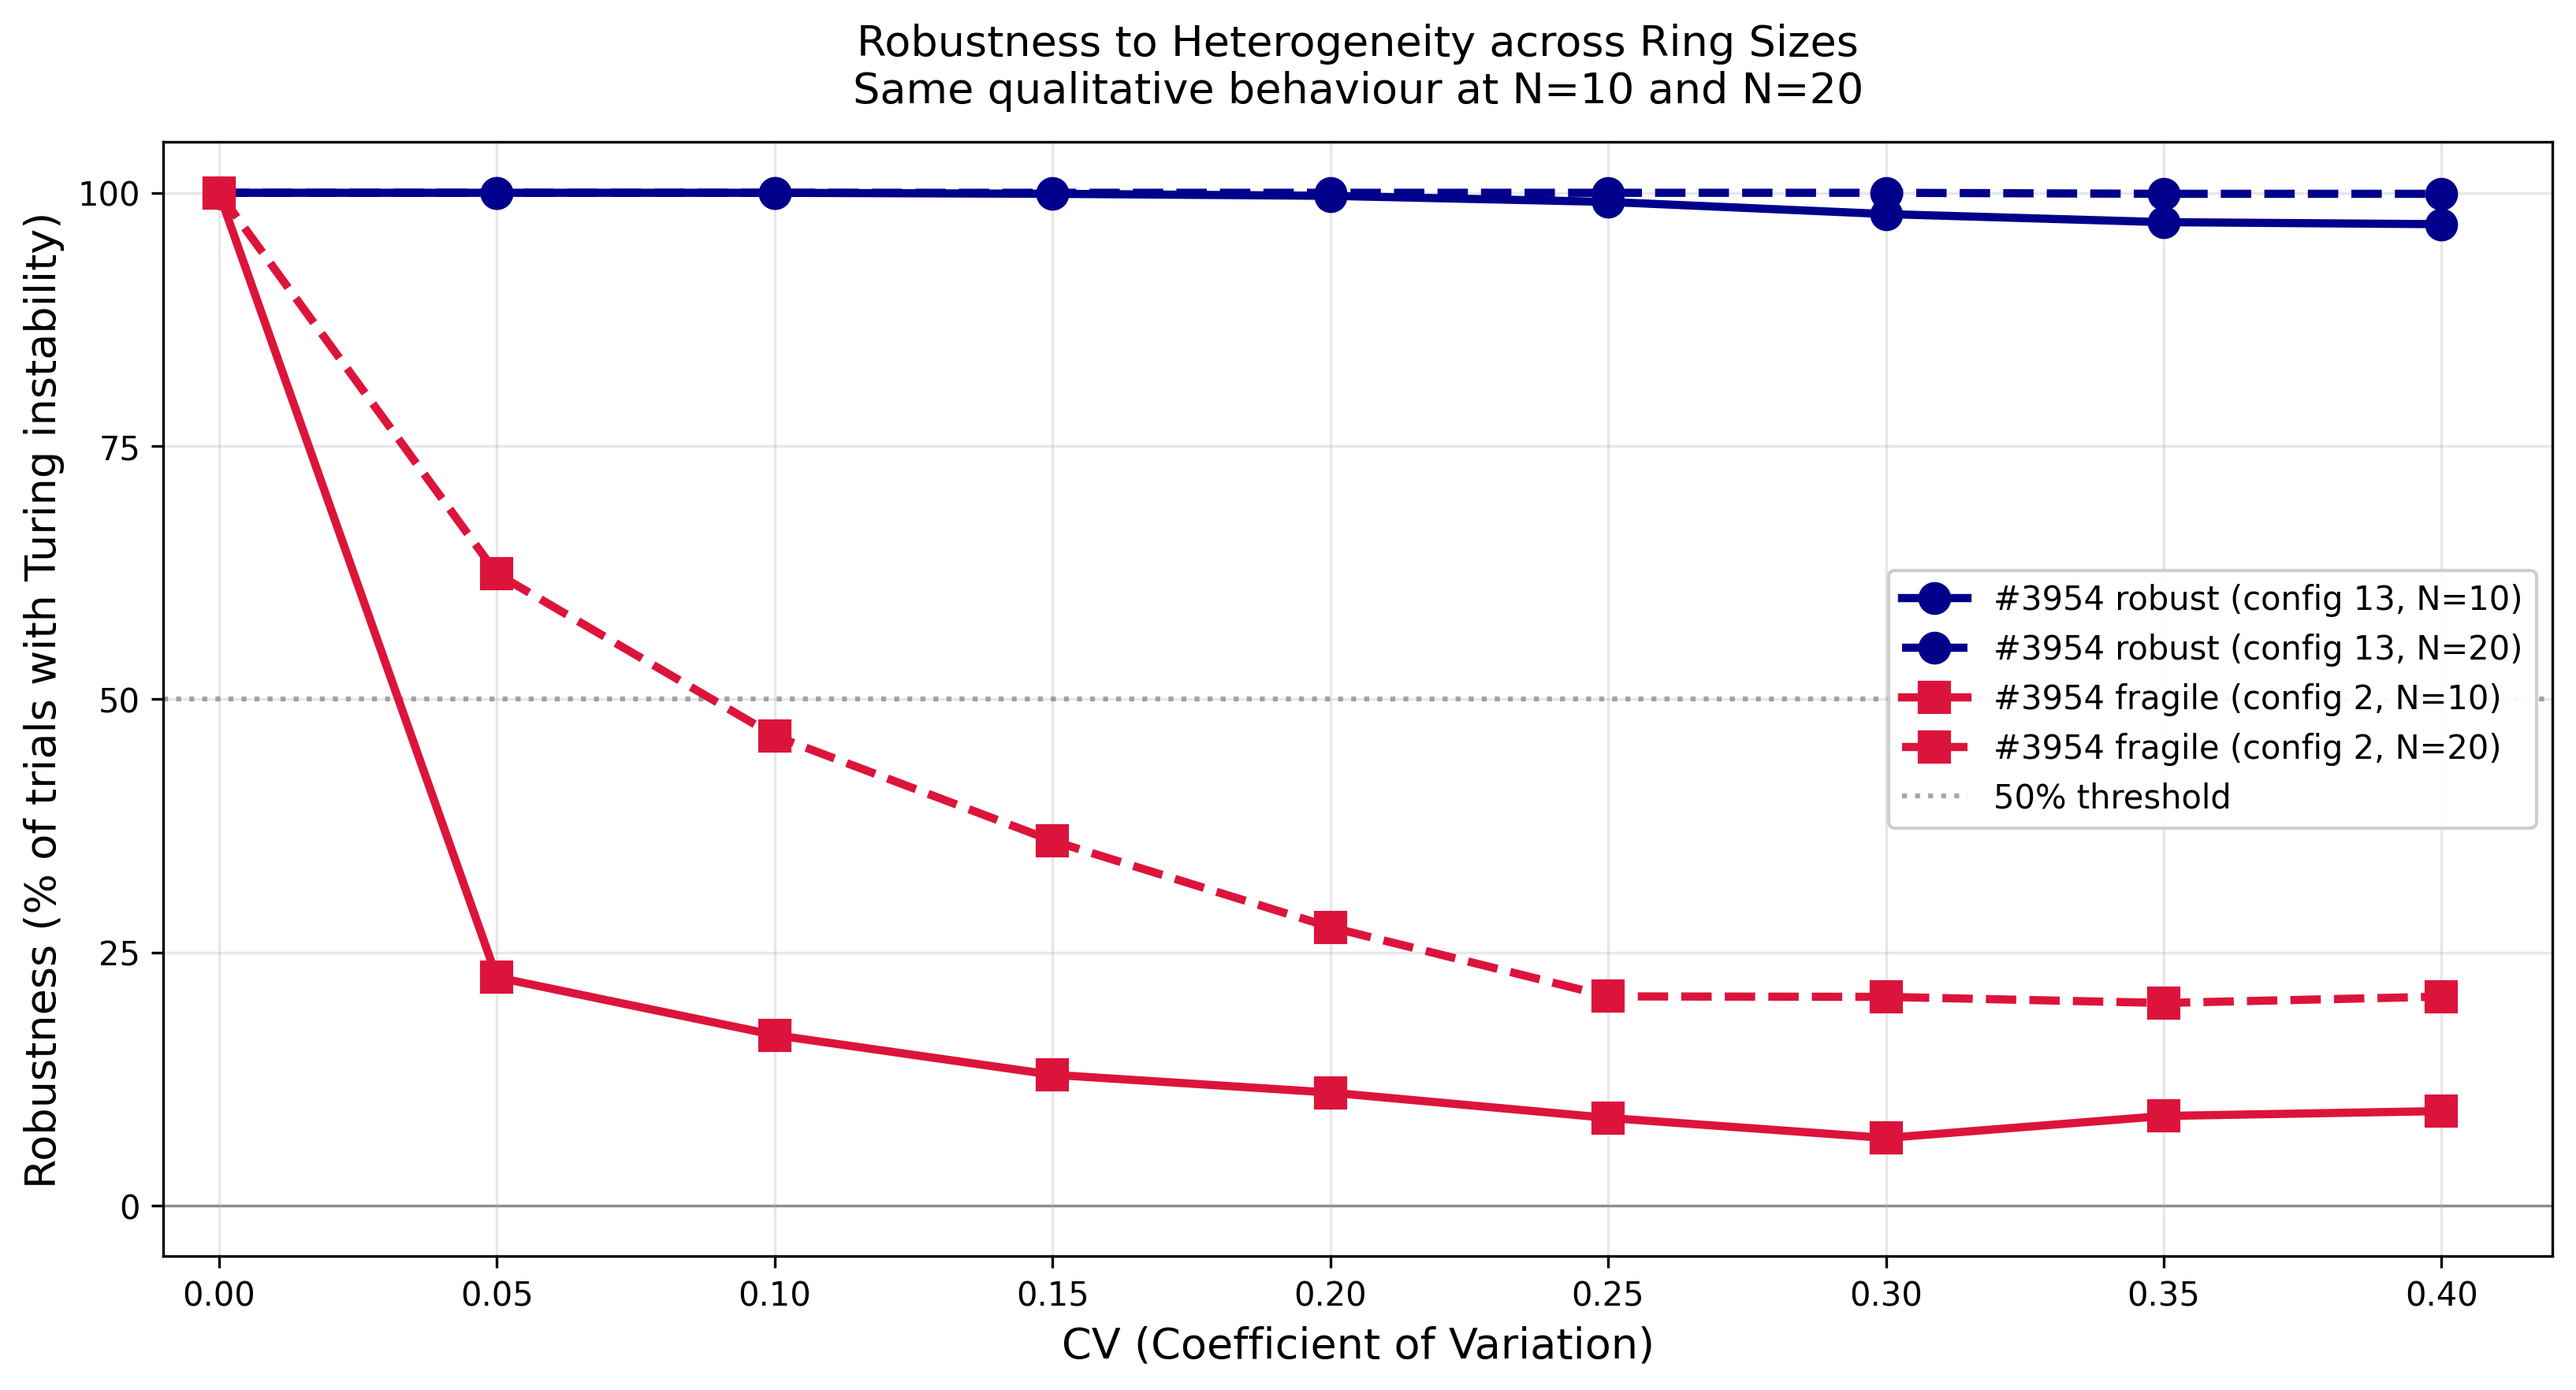
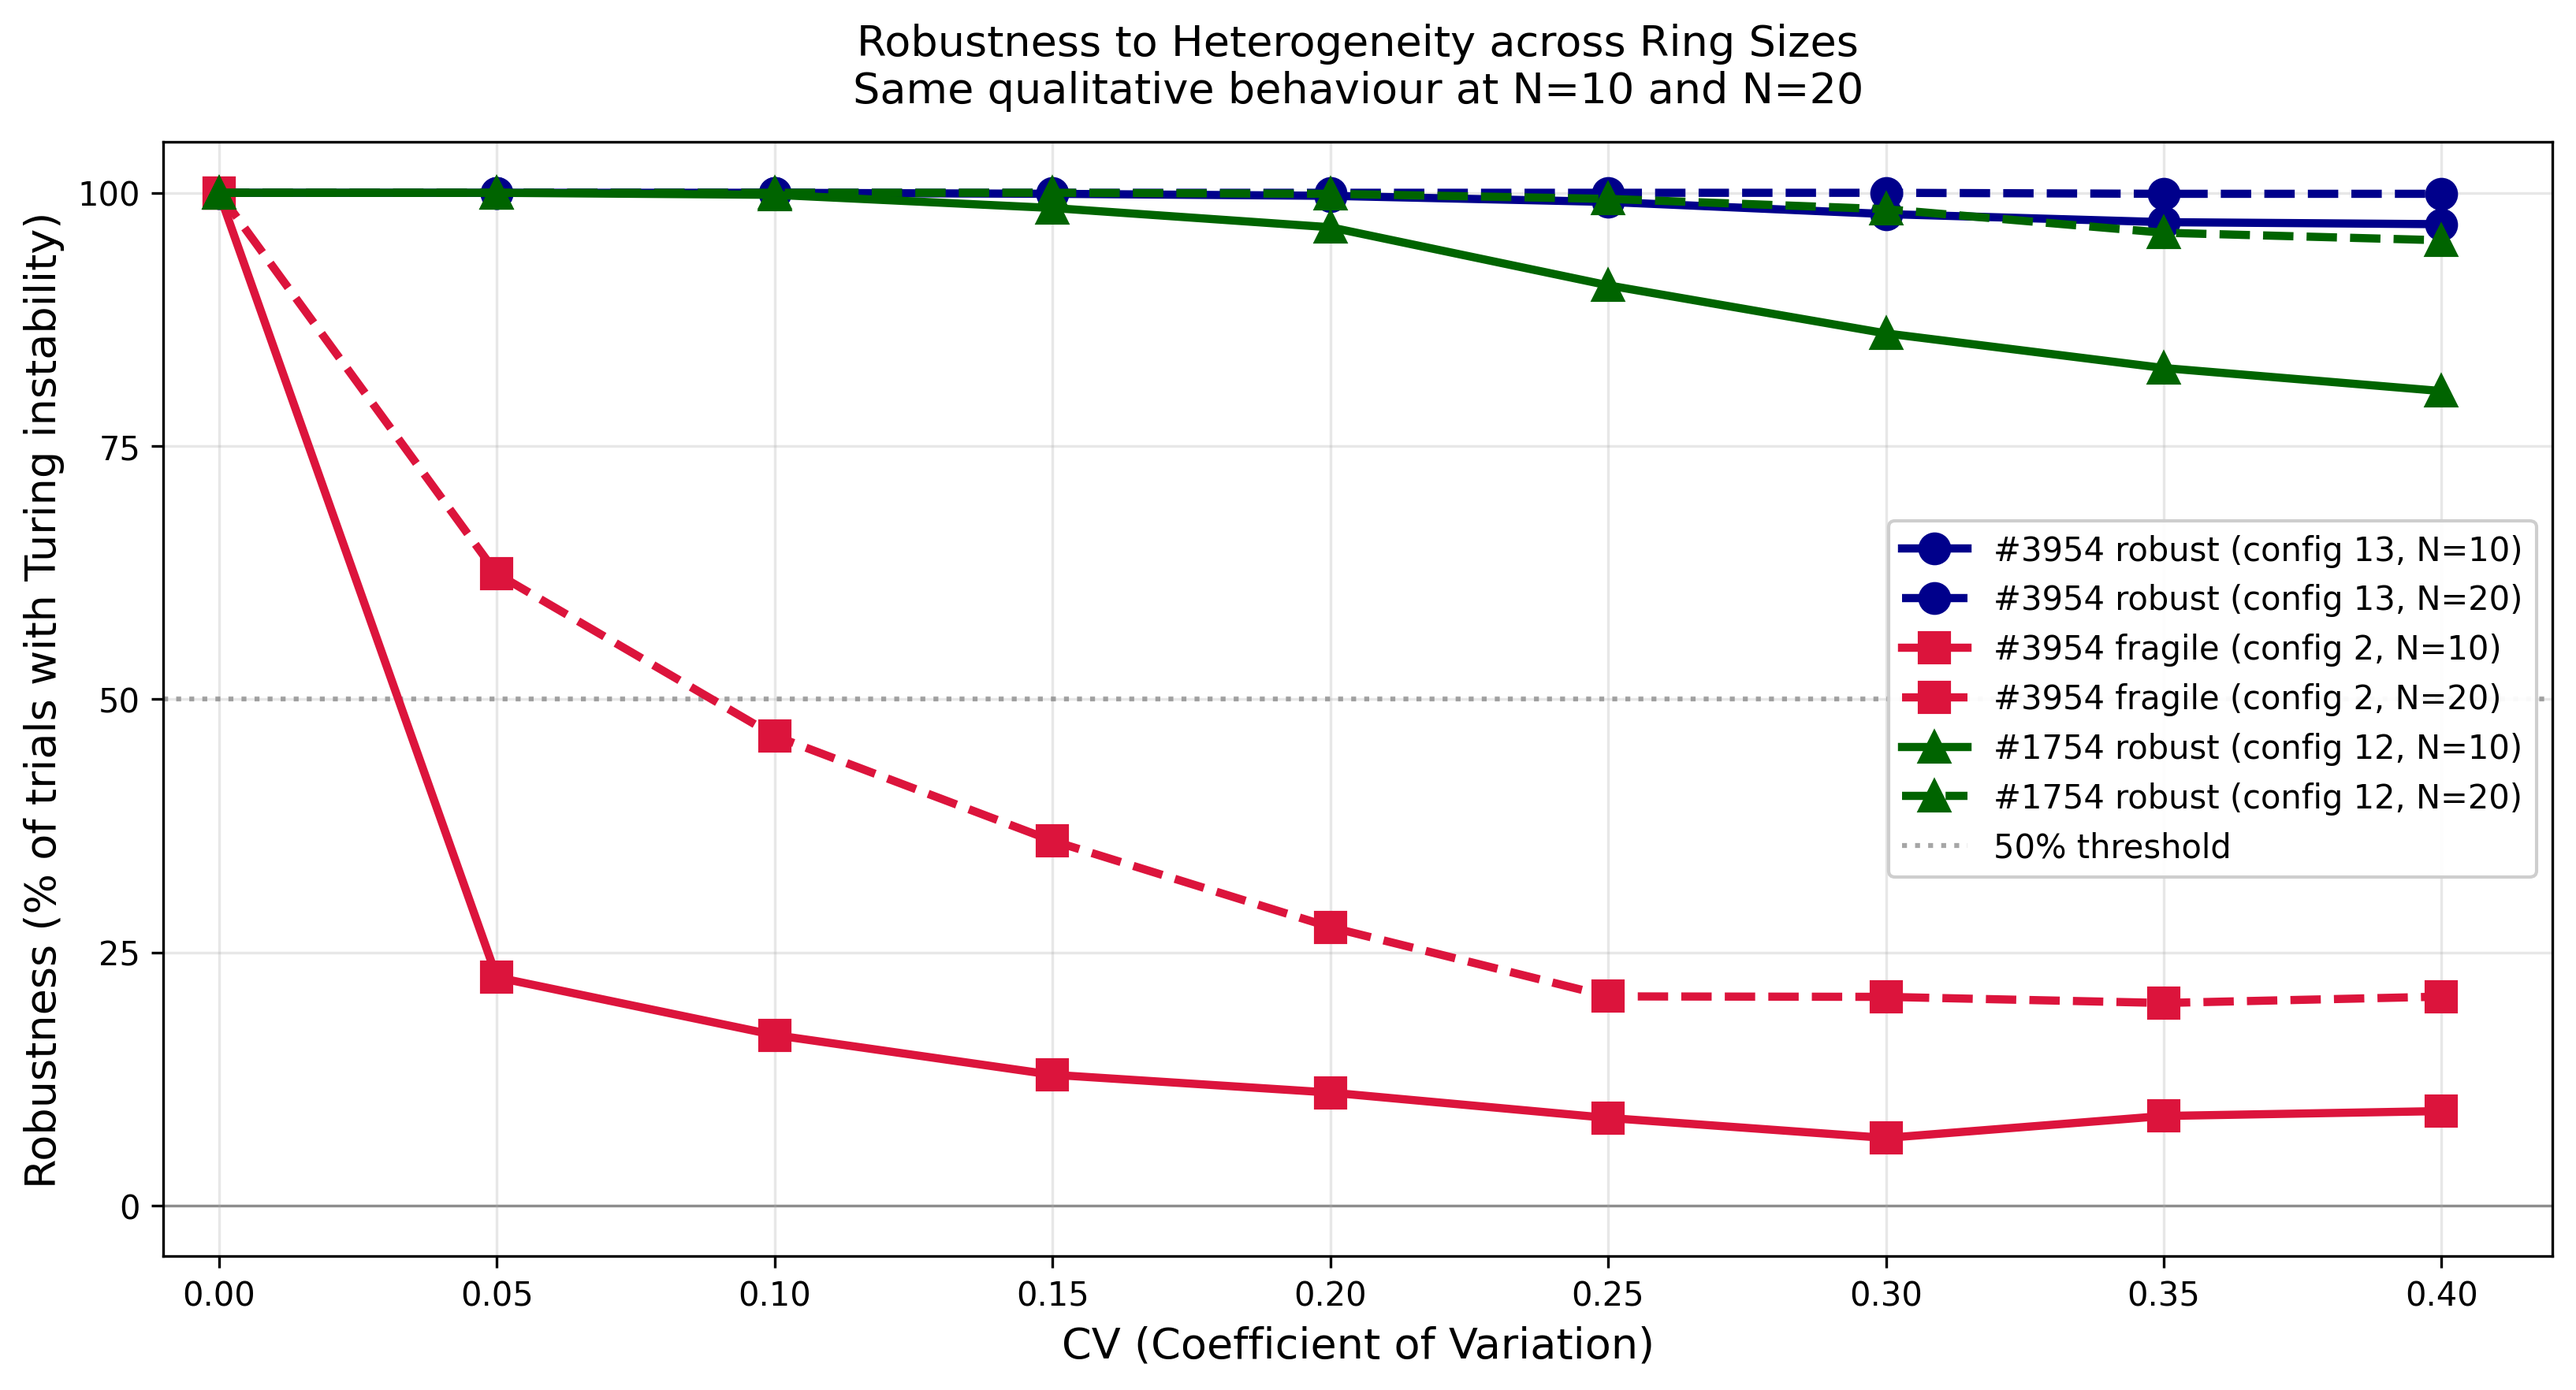
1754 new plots

diff --git a/BiologicalRealism/plots.py b/BiologicalRealism/plots.py
@@ -211,15 +211,16 @@ with open('1754_cv_sweep_high_config12_N10.pkl', 'rb') as f:
 with open('1754_sensitivity_results_config12_N10.pkl', 'rb') as f:
     sens_data_12 = pickle.load(f)
 
-# Config 2 (fragile)
-# with open('1754_cv_sweep_low_config_N10.pkl', 'rb') as f:
-#     cv_data_7 = pickle.load(f)
 
-# with open('1754_sensitivity_results_config2_N10.pkl', 'rb') as f:
-#     sens_data_7 = pickle.load(f)
+# Config 6 (fragile)
+with open('1754_cv_sweep_low_config6_N10.pkl', 'rb') as f:
+    cv_data_6 = pickle.load(f)
+
+with open('1754_sensitivity_results_config6_N10.pkl', 'rb') as f:
+    sens_data_6 = pickle.load(f)
 
 cv12 = extract_cv_arrays(cv_data_12)
-# cv7 = extract_cv_arrays(cv_data_7)
+cv6 = extract_cv_arrays(cv_data_6)
 
 
 ################ TOPOLOGY 1754 ################
@@ -260,8 +261,8 @@ fig, ax = plt.subplots(figsize=(12, 6))
 
 # Create boxplot
 
-bp = ax.boxplot(cv13['all'],
-                positions=range(len(cv13['CV'])),
+bp = ax.boxplot(cv12['all'],
+                positions=range(len(cv12['CV'])),
                 widths=0.6,
                 patch_artist=True,
                 showfliers=True,
@@ -276,80 +277,80 @@ for patch in bp['boxes']:
 # horizontal line at Re(λ) = 0 (Turing threshold)
 ax.axhline(y=0, color='red', linestyle='--', linewidth=2, label='Turing threshold (Re(λ)=0)', zorder=10)
 
-ax.set_xticks(range(len(cv13['CV'])))
-ax.set_xticklabels([f'{cv:.2f}' for cv in cv13['CV']])
+ax.set_xticks(range(len(cv12['CV'])))
+ax.set_xticklabels([f'{cv:.2f}' for cv in cv12['CV']])
 ax.set_xlabel('CV (Coefficient of Variation)', fontsize=12)
 ax.set_ylabel('Max Re(λ)', fontsize=12)
 
 ax.set_title(f'3954 Distribution of Turing Growth Rates Under Parameter Heterogeneity\n'
-             f'Config 13 (robust): {diff_str(cv13["hopping"])}',
+             f'Config 12 (robust): {diff_str(cv12["hopping"])}',
              fontsize=12, pad=15)
 
 ax.legend(fontsize=9, framealpha=0.9)  # Was fontsize=11
 ax.grid(True, alpha=0.3, axis='y')
 
 plt.tight_layout()
-plt.savefig('config13_fig2_boxplot_cv_sweep.png', dpi=300, bbox_inches='tight')
-print("Saved: config13_fig2_boxplot_cv_sweep.png")
+plt.savefig('config12_fig2_boxplot_cv_sweep.png', dpi=300, bbox_inches='tight')
+print("Saved: config12_fig2_boxplot_cv_sweep.png")
 plt.close()
 
 
-# # ============================================================================
-# # FIGURE 1B: Mean with full range — Config 2
-# # ============================================================================
+# ============================================================================
+# FIGURE 1B: Mean with full range — Config 6
+# ============================================================================
 
-# fig, ax = plt.subplots(figsize=(10, 6))
+fig, ax = plt.subplots(figsize=(10, 6))
 
-# ax.fill_between(cv2['CV'], cv2['min'], cv2['max'], alpha=0.2, color='blue', label='Full range (min-max)', zorder=1)
-# ax.plot(cv2['CV'], cv2['mean'], 'o-', color='darkblue', linewidth=2.5, markersize=8, label='Mean Re(λ)', zorder=3)
-# ax.axhline(y=0, color='red', linestyle='--', linewidth=2, label='Turing threshold', zorder=2)
+ax.fill_between(cv6['CV'], cv6['min'], cv6['max'], alpha=0.2, color='blue', label='Full range (min-max)', zorder=1)
+ax.plot(cv6['CV'], cv6['mean'], 'o-', color='darkblue', linewidth=2.5, markersize=8, label='Mean Re(λ)', zorder=3)
+ax.axhline(y=0, color='red', linestyle='--', linewidth=2, label='Turing threshold', zorder=2)
 
-# ax.set_xlabel('CV (Coefficient of Variation)', fontsize=12)
-# ax.set_ylabel('Max Re(λ)', fontsize=12)
-# ax.set_title(f'3954 Turing Growth Rate vs Parameter Heterogeneity\n' f'Config 2 (fragile): {diff_str(cv2["hopping"])}', fontsize=12, pad=15)
-# ax.legend(fontsize=11, loc='upper left')
-# ax.grid(True, alpha=0.3)
+ax.set_xlabel('CV (Coefficient of Variation)', fontsize=12)
+ax.set_ylabel('Max Re(λ)', fontsize=12)
+ax.set_title(f'3954 Turing Growth Rate vs Parameter Heterogeneity\n' f'Config 6 (fragile): {diff_str(cv6["hopping"])}', fontsize=12, pad=15)
+ax.legend(fontsize=11, loc='upper left')
+ax.grid(True, alpha=0.3)
 
-# plt.tight_layout()
-# plt.savefig('config2_fig1_mean_range_vs_cv.png', dpi=300, bbox_inches='tight')
-# print("Saved: config2_fig1_mean_range_vs_cv.png")
-# plt.close()
+plt.tight_layout()
+plt.savefig('config6_fig1_mean_range_vs_cv.png', dpi=300, bbox_inches='tight')
+print("Saved: config6_fig1_mean_range_vs_cv.png")
+plt.close()
 
-# # ============================================================================
-# # FIGURE 2B: Boxplot — Config 2
-# # ============================================================================
+# ============================================================================
+# FIGURE 2B: Boxplot — Config 6
+# ============================================================================
 
-# fig, ax = plt.subplots(figsize=(12, 6))
+fig, ax = plt.subplots(figsize=(12, 6))
 
-# bp = ax.boxplot(cv2['all'],
-#                 positions=range(len(cv2['CV'])),
-#                 widths=0.6,
-#                 patch_artist=True,
-#                 showfliers=True,
-#                 medianprops=dict(color='black', linewidth=1.5),
-#                 flierprops=dict(marker='o', markersize=3, alpha=0.3))
+bp = ax.boxplot(cv6['all'],
+                positions=range(len(cv6['CV'])),
+                widths=0.6,
+                patch_artist=True,
+                showfliers=True,
+                medianprops=dict(color='black', linewidth=1.5),
+                flierprops=dict(marker='o', markersize=3, alpha=0.3))
 
-# for patch in bp['boxes']:
-#     patch.set_facecolor('slateblue')
-#     patch.set_alpha(1.0)
+for patch in bp['boxes']:
+    patch.set_facecolor('slateblue')
+    patch.set_alpha(1.0)
 
-# ax.axhline(y=0, color='red', linestyle='--', linewidth=2, label='Turing threshold (Re(λ)=0)', zorder=10)
+ax.axhline(y=0, color='red', linestyle='--', linewidth=2, label='Turing threshold (Re(λ)=0)', zorder=10)
 
-# ax.set_xticks(range(len(cv2['CV'])))
-# ax.set_xticklabels([f'{cv:.2f}' for cv in cv2['CV']])
-# ax.set_xlabel('CV (Coefficient of Variation)', fontsize=12)
-# ax.set_ylabel('Max Re(λ)', fontsize=12)
-# ax.set_title(f'3954 Distribution of Turing Growth Rates Under Parameter Heterogeneity\n'
-#              f'Config 2 (fragile): {diff_str(cv2["hopping"])} — 1000 trials per CV',
-#              fontsize=12, pad=15)
+ax.set_xticks(range(len(cv6['CV'])))
+ax.set_xticklabels([f'{cv:.2f}' for cv in cv6['CV']])
+ax.set_xlabel('CV (Coefficient of Variation)', fontsize=12)
+ax.set_ylabel('Max Re(λ)', fontsize=12)
+ax.set_title(f'3954 Distribution of Turing Growth Rates Under Parameter Heterogeneity\n'
+             f'Config 6 (fragile): {diff_str(cv6["hopping"])} — 1000 trials per CV',
+             fontsize=12, pad=15)
 
-# ax.legend(fontsize=9, framealpha=0.9)
-# ax.grid(True, alpha=0.3, axis='y')
+ax.legend(fontsize=9, framealpha=0.9)
+ax.grid(True, alpha=0.3, axis='y')
 
-# plt.tight_layout()
-# plt.savefig('config2_fig2_boxplot_cv_sweep.png', dpi=300, bbox_inches='tight')
-# print("Saved: config2_fig2_boxplot_cv_sweep.png")
-# plt.close()
+plt.tight_layout()
+plt.savefig('config6_fig2_boxplot_cv_sweep.png', dpi=300, bbox_inches='tight')
+print("Saved: config6_fig2_boxplot_cv_sweep.png")
+plt.close()
 
 
 
@@ -468,6 +469,7 @@ plot_sensitivity(sens_data_2, 'Config 2 (fragile)', 'config2_fig3_sensitivity.pn
 
 plot_sensitivity(sens_data_12, 'Config 12 (robust)', 'config12_fig3_sensitivity.png')
 
+plot_sensitivity(sens_data_6, 'Config 6 (fragile)', 'config6_fig3_sensitivity.png')
 
 
 
@@ -488,11 +490,14 @@ with open('3954_cv_sweep_low_config2_N10.pkl', 'rb') as f:
 with open('3954_cv_sweep_low_config2_N20.pkl', 'rb') as f:
     cv2_N20_data = pickle.load(f)
 
-with open('1754_cv_sweep_low_config12_N10.pkl', 'rb') as f:
+with open('1754_cv_sweep_high_config12_N10.pkl', 'rb') as f:
     cv12_N10_data = pickle.load(f)
-with open('1754_cv_sweep_low_config12_N20.pkl', 'rb') as f:
+with open('1754_cv_sweep_high_config12_N20.pkl', 'rb') as f:
     cv12_N20_data = pickle.load(f)
-
+with open('1754_cv_sweep_low_config6_N10.pkl', 'rb') as f:
+    cv6_N10_data = pickle.load(f)
+# with open('1754_cv_sweep_high_config12_N20.pkl', 'rb') as f:
+#     cv12_N20_data = pickle.load(f)
 
 
 # Extract robustness arrays using your existing helper
@@ -502,6 +507,8 @@ cv2_N10  = extract_cv_arrays(cv2_N10_data)
 cv2_N20  = extract_cv_arrays(cv2_N20_data)
 cv12_N10 = extract_cv_arrays(cv12_N10_data)
 cv12_N20 = extract_cv_arrays(cv12_N20_data)
+cv6_N10  = extract_cv_arrays(cv6_N10_data)
+# cv6_N20  = extract_cv_arrays(cv6_N20_data)
 
 # Build the 4-curve list
 robustness_curves = [
@@ -534,7 +541,17 @@ robustness_curves = [
         'label': '#1754 robust (config 12, N=20)',
         'CV': cv12_N20['CV'], 'robustness': cv12_N20['robustness'],
         'color': 'darkgreen', 'marker': '^', 'linestyle': '--',
-    }
+    },
+    {
+        'label': '#1754 fragile (config 6, N=10)',
+        'CV': cv6_N10['CV'], 'robustness': cv6_N10['robustness'],
+        'color': 'orange', 'marker': 'D', 'linestyle': '-',
+    },
+    # {
+    #     'label': '#1754 fragile (config 6, N=20)',
+    #     'CV': cv6_N20['CV'], 'robustness': cv6_N20['robustness'],
+    #     'color': 'orange', 'marker': 'D', 'linestyle': '--',
+    # },    
 ]
 
 fig, ax = plt.subplots(figsize=(11, 6))
